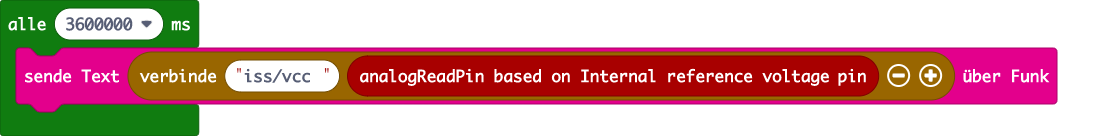
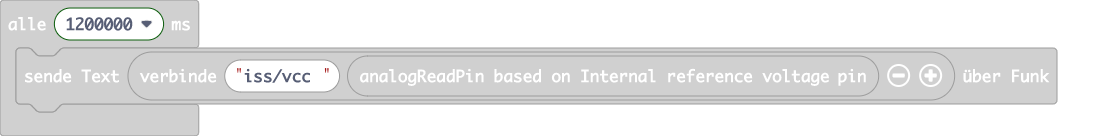
send Vcc every 20 mins

diff --git a/main.ts b/main.ts
@@ -16,6 +16,6 @@ basic.forever(function () {
         serial.writeLine("" + (acc))
     }
 })
-loops.everyInterval(3600000, function () {
+loops.everyInterval(1200000, function () {
     radio.sendString("iss/vcc " + pins.analogReadPinInternalRef())
 })
